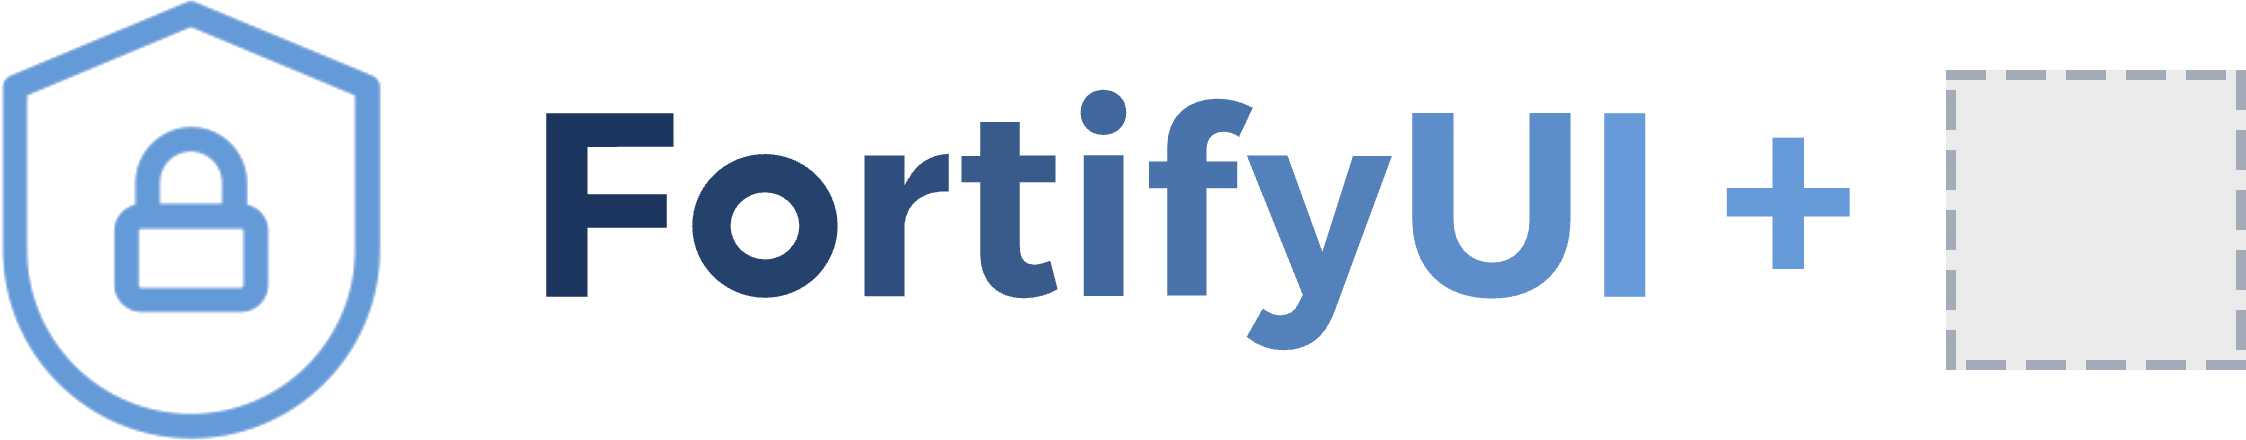
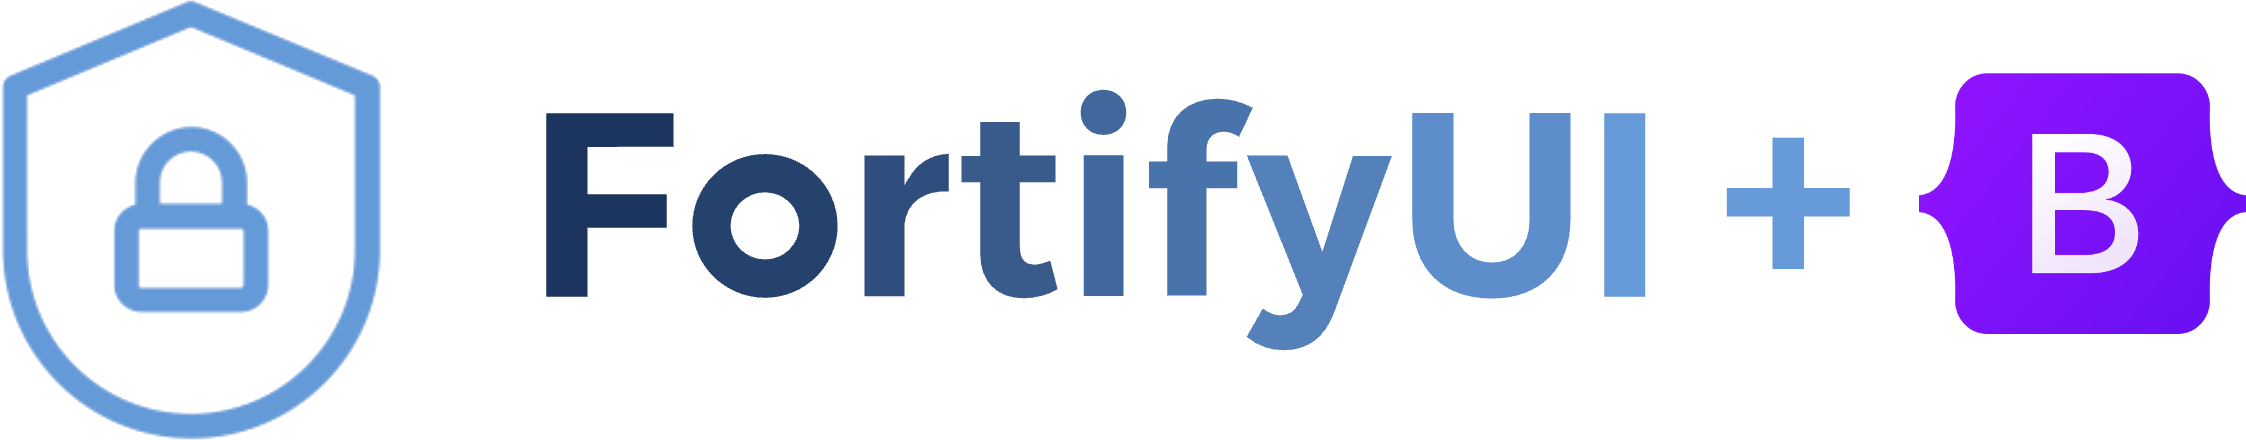
Changed image

Changed region(s): [[0.8415, 0.1477, 1.0, 0.8568]]

diff --git a/README.md b/README.md
@@ -1,4 +1,4 @@
-<p align="center"><img width="400" src="https://github.com/zacksmash/fortify-ui-preset/raw/master/fortify-preset-image.png"></p>
+<p align="center"><img width="400" src="https://github.com/bezner/fortify-ui-bootstrap/raw/master/fortify-preset-image.png"></p>
 
 # Using this template
 
